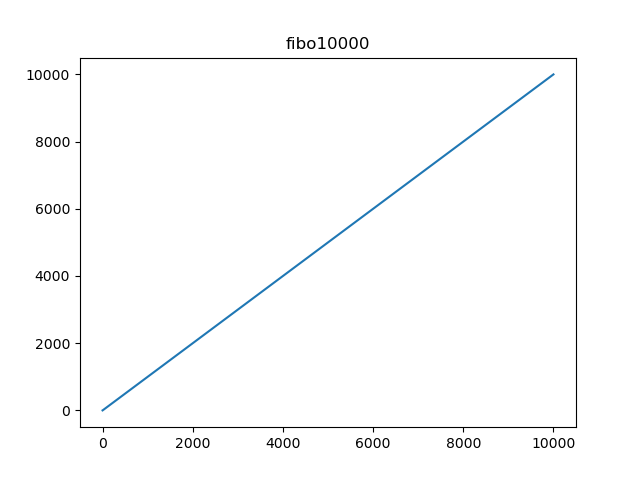
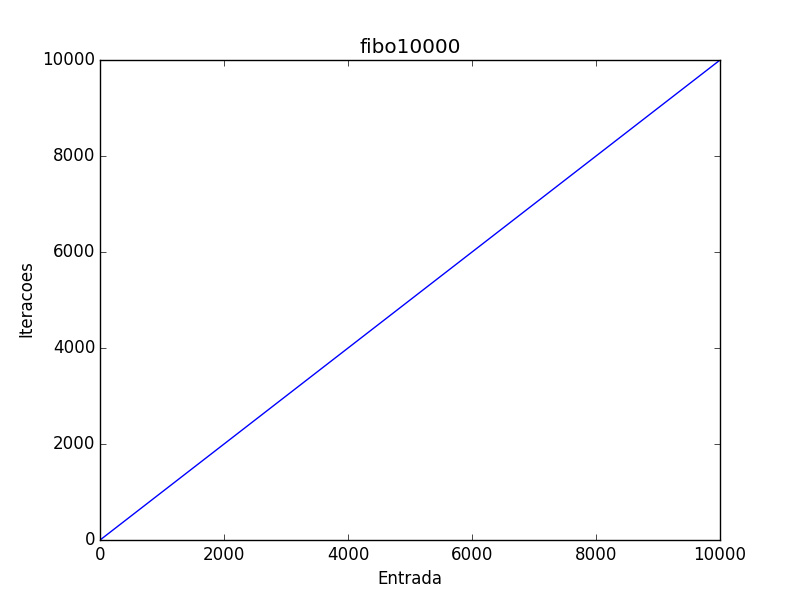
knapSack

diff --git a/app.py b/app.py
@@ -3,6 +3,7 @@ import matplotlib.pyplot as plt
 import numpy as np
 import time
 
+# ex 1
 ite = 0
 
 def fiboRec(n):
@@ -21,9 +22,28 @@ def fibo(n):
         ite += 1
     return ite
 
+# Criacao de grafico
+'''
+x = []
+y = []
+for n in range(10000):
+    x.append(n)
+    y.append(fibo(n))
+
+fig, ax = plt.subplots()  # Create a figure containing a single axes.
+ax.plot(x, y);  # Plot some data on the axes.
+ax.set_title("fibo10000")
+ax.set_xlabel('Entrada')
+ax.set_ylabel('Iteracoes')
+fig.savefig('fibo10000.png')
+'''
+
+# ex 3
+it = 0
 def knapSack(W, wt, val, n):
-  
     # Base Case
+    global it
+    it += 1
     if n == 0 or W == 0:
         return 0
   
@@ -33,12 +53,11 @@ def knapSack(W, wt, val, n):
     # in the optimal solution
     if (wt[n-1] > W):
         return knapSack(W, wt, val, n-1)
-  
     # return the maximum of two cases:
     # (1) nth item included
     # (2) not included
     else:
-        return list(
+        return max(
             val[n-1] + knapSack(
                 W-wt[n-1], wt, val, n-1),
             knapSack(W, wt, val, n-1))
@@ -51,18 +70,13 @@ val = [92, 57, 49, 68, 60, 43, 67, 84, 87, 72]
 wt = [23, 31, 29, 44, 53, 38, 63, 85, 89, 82]
 W = 165
 n = len(val)
-print(knapSack(W, wt, val, n))
-  
-# This code is contributed by Nikhil Kumar Singh
-
-#x = []
-#y = []
-#for n in range(10000):
-#    x.append(n)
-#    y.append(fibo(n))
-#
-#fig, ax = plt.subplots()  # Create a figure containing a single axes.
-#ax.plot(x, y);  # Plot some data on the axes.
-#ax.set_title("fibo10000")
-#fig.savefig('fibo10000.png')
-
+# Blocos selecionados: 1, 2, 3, 4, 6
+print(str(knapSack(W, wt, val, n)) + "\tIteracoes: " + str(it))
+#it = 0
+val = [50, 50, 64, 46, 50, 5]
+wt = [56, 59, 80, 64, 75, 17]
+W = 190
+n = len(val)
+it=0
+print(str(knapSack(W, wt, val, n)) + "\tIteracoes: " + str(it))
+#blocos 1, 2 e 5

diff --git a/README.md b/README.md
@@ -38,15 +38,15 @@
 	devolva f [n]
    ``` 
    
-1. Monte uma tabela com a contabilização das execuções anteriores (número de iterações e número de instruções) e com os resultados das execuções. As linhas da tabela são os algoritmos implementados, as colunas os valores para testar e contabilizar.
+2. Monte uma tabela com a contabilização das execuções anteriores (número de iterações e número de instruções) e com os resultados das execuções. As linhas da tabela são os algoritmos implementados, as colunas os valores para testar e contabilizar.
 
-1. Resolva o problema da mochila conforme o enuciado em sala de aula. 
+3. Resolva o problema da mochila conforme o enuciado em sala de aula. 
 
-   1. Ache uma solução que testa todas as combinações possíveis e seleciona a melhor, aplicando divisão-e-conquista ou não;
-   1. Contabilize o número de iterações;
-   1. Implemente e teste sua solução, para o caso exposto em aula e outros de mesmo porte (;-)).
+   - Ache uma solução que testa todas as combinações possíveis e seleciona a melhor, aplicando divisão-e-conquista ou não;
+   - Contabilize o número de iterações;
+   - Implemente e teste sua solução, para o caso exposto em aula e outros de mesmo porte (;-)).
 
-1. Resolva o problema da mochila utilizando o algoritmo com programação dinâmica visto em aula, teste e contabilize o número de iterações.
+4. Resolva o problema da mochila utilizando o algoritmo com programação dinâmica visto em aula, teste e contabilize o número de iterações.
 
 ```javascript
 Inteiro backPackPD(Inteiro N, Inteiro C, Tupla<Inteiro, Inteiro> itens)
